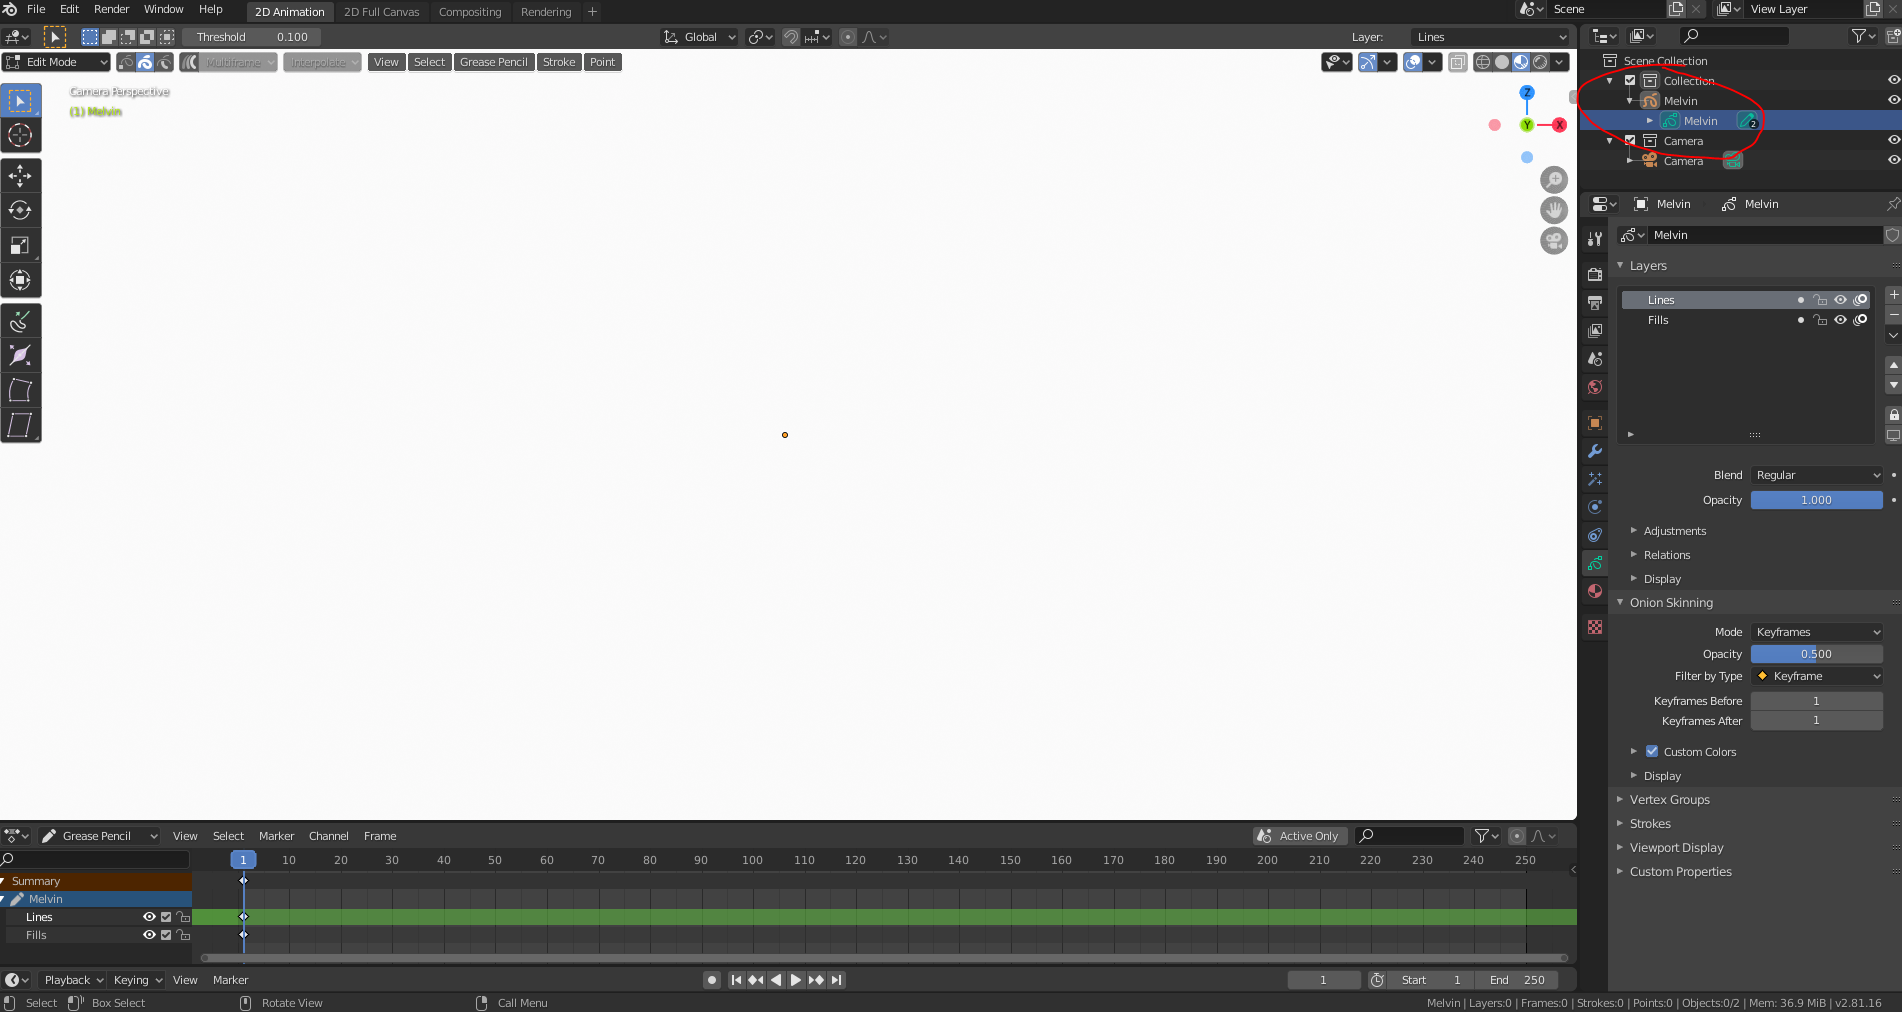
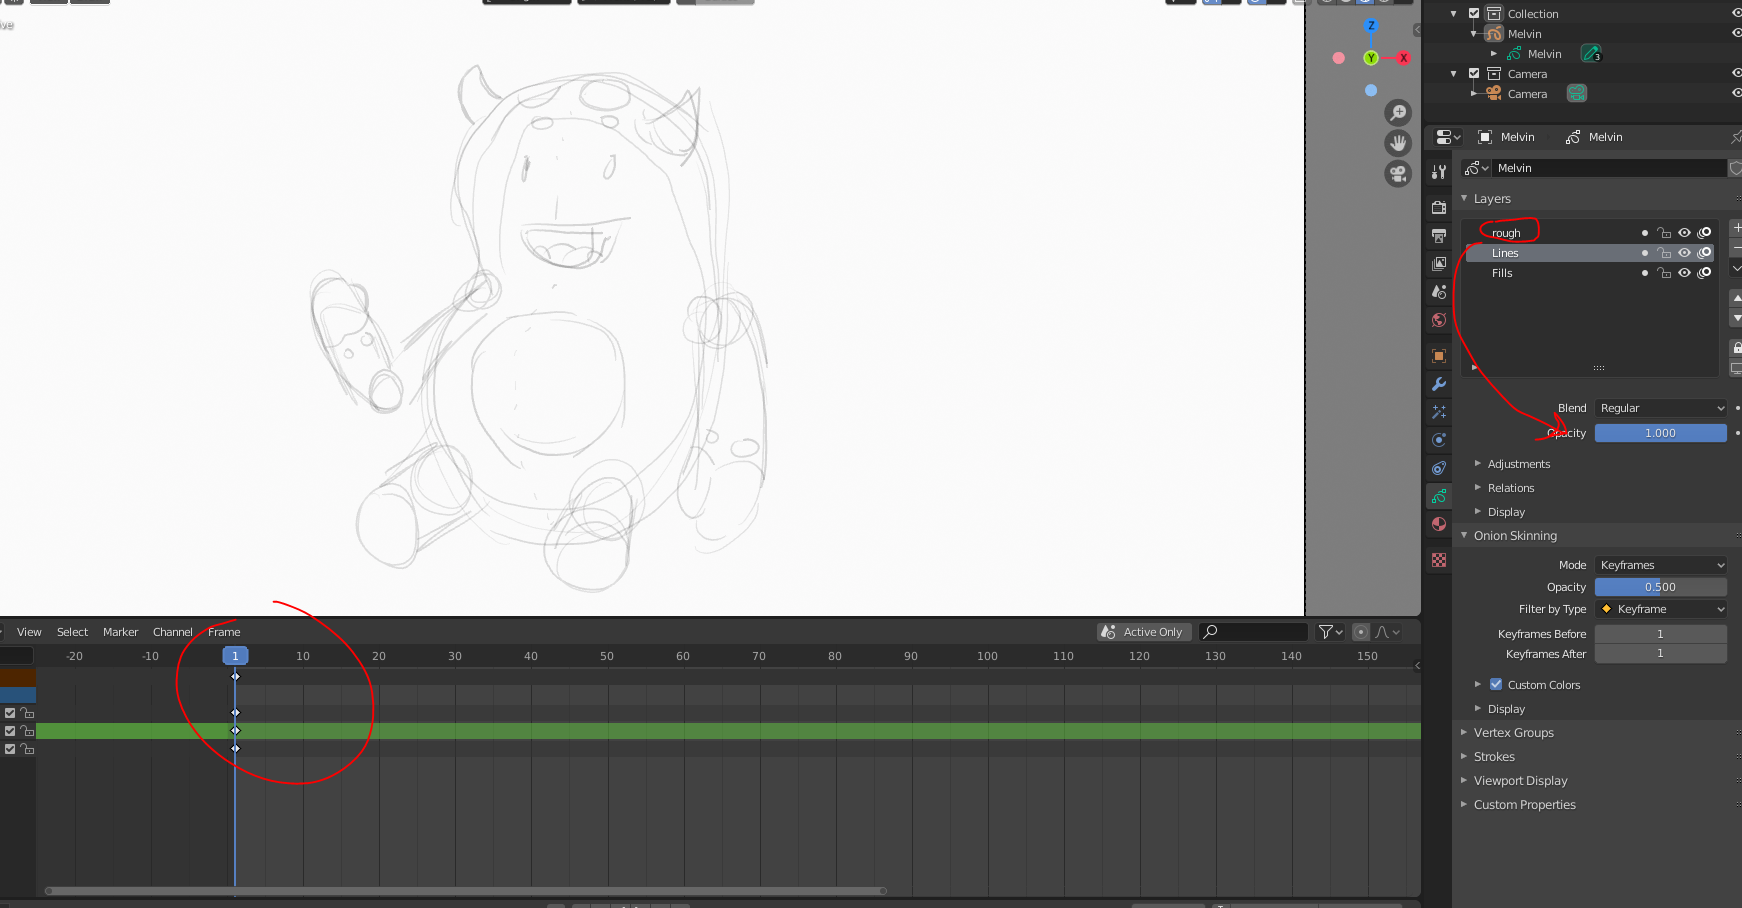
GitBook: [master] 57 pages and 3 assets modified

diff --git a/blender-1/blender/grease-pencil-2d-animation/untitled.md b/blender-1/blender/grease-pencil-2d-animation/untitled.md
@@ -2,7 +2,7 @@
 
 Best to rename the **object and the data** name the same.
 
-![](../../../.gitbook/assets/image%20%28102%29.png)
+![](../../../.gitbook/assets/image%20%28103%29.png)
 
 Selecting the data bae is where you'll see the layers listed. The layer currently have mask, lock, hide, onion shown in that order for each layer.
 
@@ -12,5 +12,13 @@ Since we're switching form edit, object, and draw often, I checked "Tab for pie 
 
 ![](../../../.gitbook/assets/image%20%28101%29.png)
 
-When roughing out a sketch and you think it looks good, you can jump into the next frame in the same layer to finalize your drawing.
+When roughing out a sketch and you think it looks good, you can jump into the next frame in the same layer to finalize your drawing. Here, I'm going over my rough drawing in frame 2.
+
+![](../../../.gitbook/assets/image%20%28104%29.png)
+
+You may not need to fix the current rough sketch, so you could chose to move onto the lines layer in the same frame that the rough is in \(**so same frame, but different layer**\). Best to lighten the opacity for the rough one in this case. The rough layer's opacity isn't visible here but this is where it's adjusted.
+
+![](../../../.gitbook/assets/image%20%28102%29.png)
+
+
 
